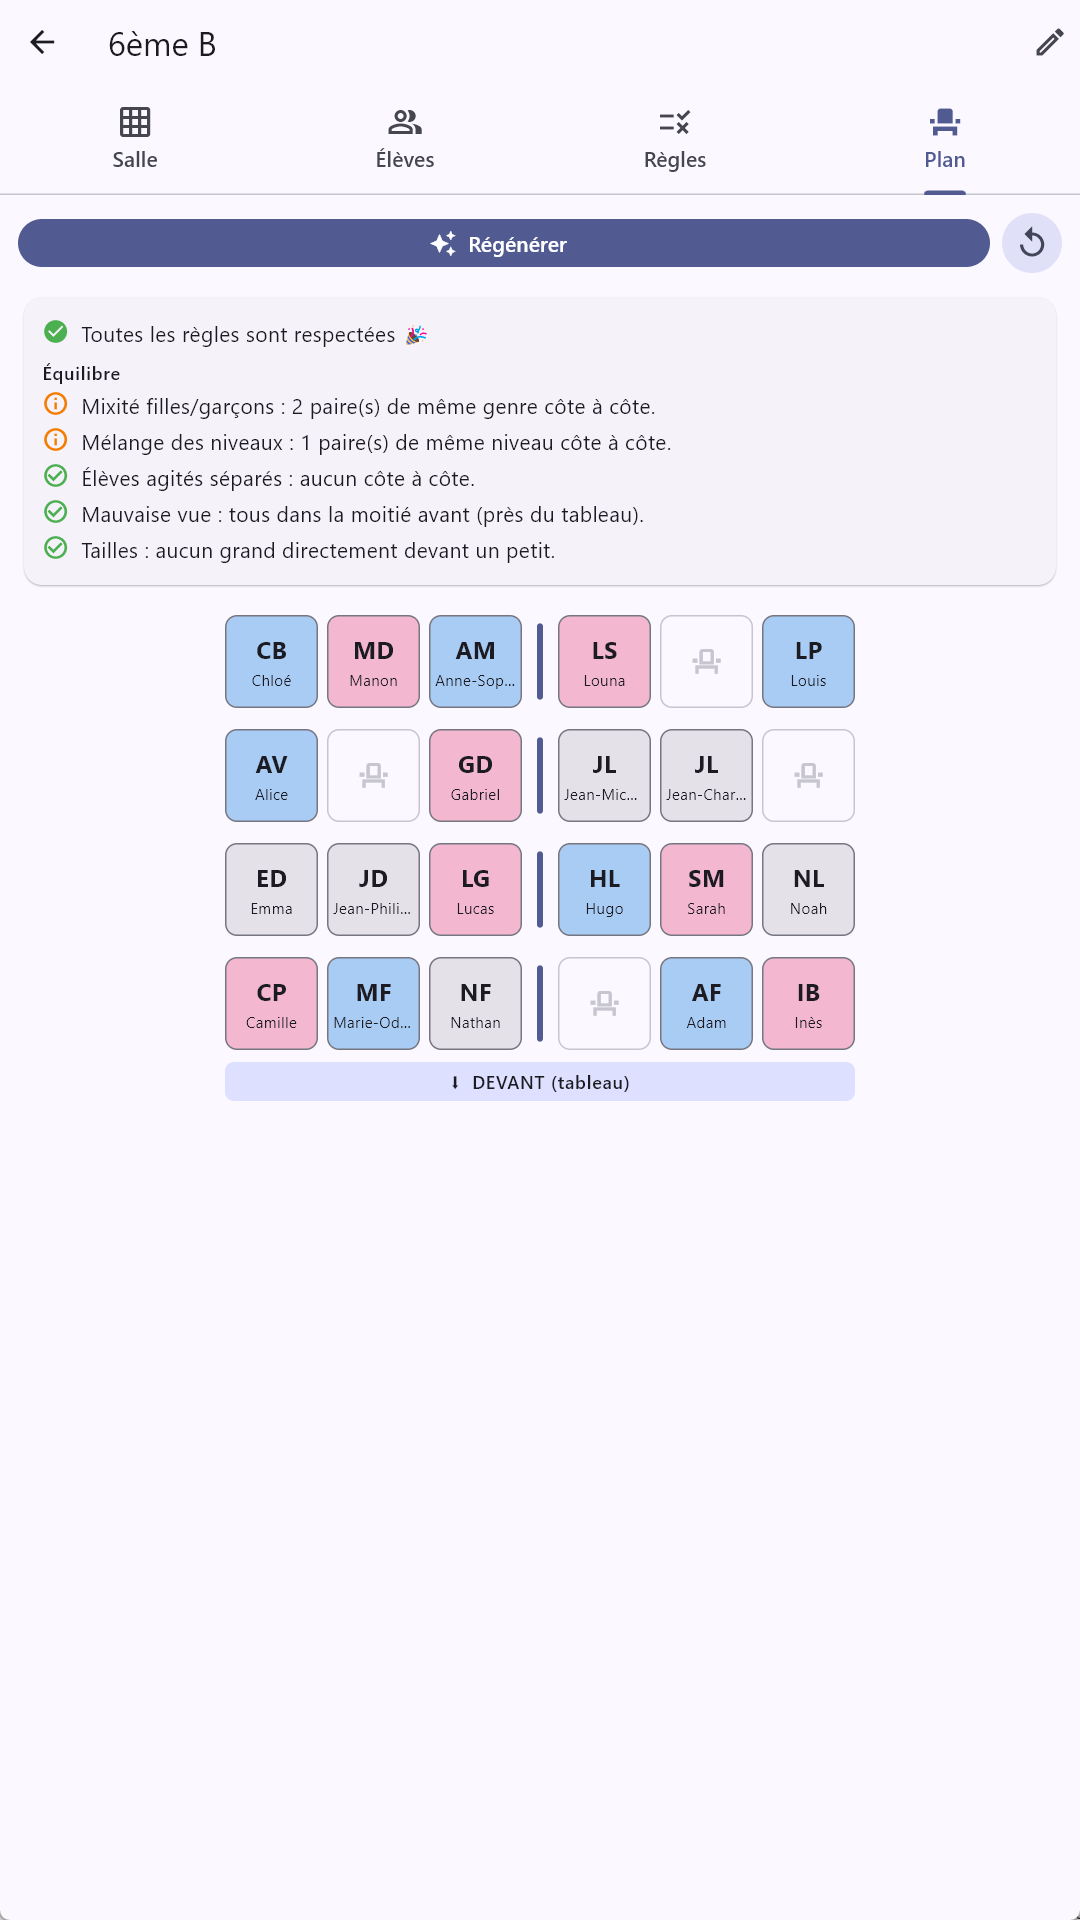
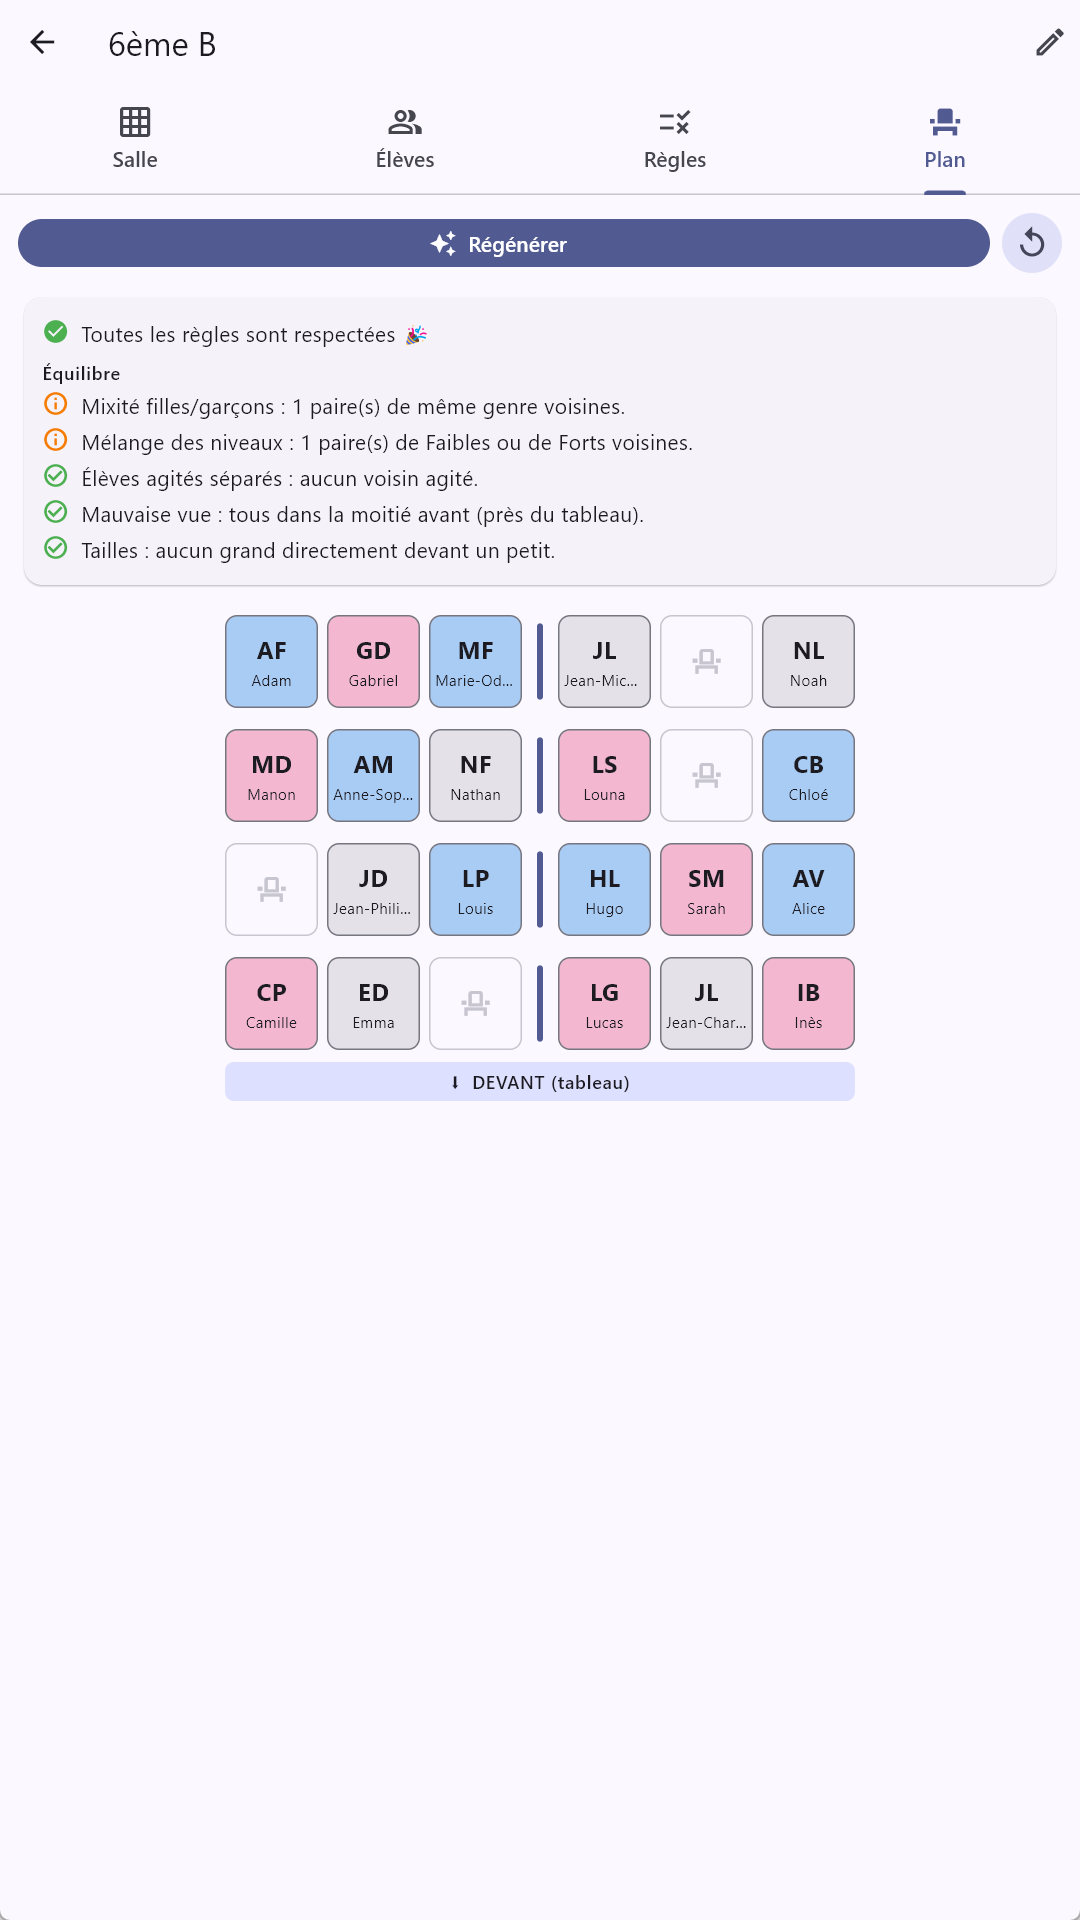
Corrige l'objectif « mélanger les niveaux » et la terminologie « voisin »
L'exemption des élèves au niveau jamais évalué reposait sur un booléen
`levelSet` bugué (marqué à tort à chaque enregistrement du formulaire, quoi
qu'on y touche) et redondant : comme pour les 3 autres objectifs
d'équilibre, ignorer directement la valeur neutre (`Level.moyen`) suffit —
un élève jamais évalué y reste par défaut, donc exempté gratuitement.
Supprime `levelSet` entièrement (modèle, grille, formulaire, JSON) et
corrige la règle pour comparer `level != Level.moyen` des deux côtés,
comme `gender != Gender.autre`.

Corrige aussi un commentaire obsolète dans room.dart qui affirmait que les
rangs sont toujours séparés par un couloir (faux : seul le couloir de
colonne coupe le voisinage gauche/droite, devant/derrière est toujours
voisin — confirmé par seating_neighbors_test.dart).

Remplace « côte à côte » (implique gauche/droite seulement) par « voisin »
partout où c'est ambigu : réglages, rapport de génération, règles
Séparer/Rapprocher, README, fiche Play Store. Reformule le sous-titre de
« Mélanger les niveaux » en « Ne pas créer 2 voisins Faibles ni 2 voisins
Forts » pour ne plus laisser croire que Moyen compte aussi.

Régénère les captures Règles et Plan avec les nouveaux libellés. Ajoute
2 tests dans engine_test.dart vérifiant que Moyen est bien ignoré.

diff --git a/lib/engine/seating_engine.dart b/lib/engine/seating_engine.dart
@@ -273,8 +273,8 @@ class SeatingEngine {
             cost += balancePenalty;
           }
           if (cls.balance.mixLevel &&
-              s.levelSet &&
-              s2.levelSet &&
+              s.level != Level.moyen &&
+              s2.level != Level.moyen &&
               s.level == s2.level) {
             cost += balancePenalty;
           }
@@ -342,8 +342,8 @@ class SeatingEngine {
           sameGender++;
         }
         if (b.mixLevel &&
-            s.levelSet &&
-            s2.levelSet &&
+            s.level != Level.moyen &&
+            s2.level != Level.moyen &&
             s.level == s2.level) {
           sameLevel++;
         }
@@ -390,23 +390,23 @@ class SeatingEngine {
         ok: sameGender == 0,
         label: sameGender == 0
             ? 'Mixité filles/garçons : aucun voisin de même genre.'
-            : 'Mixité filles/garçons : $sameGender paire(s) de même genre côte à côte.',
+            : 'Mixité filles/garçons : $sameGender paire(s) de même genre voisines.',
       ));
     }
     if (b.mixLevel) {
       notes.add((
         ok: sameLevel == 0,
         label: sameLevel == 0
-            ? 'Mélange des niveaux : aucun voisin de même niveau.'
-            : 'Mélange des niveaux : $sameLevel paire(s) de même niveau côte à côte.',
+            ? 'Mélange des niveaux : aucune paire de Faibles ou de Forts voisine.'
+            : 'Mélange des niveaux : $sameLevel paire(s) de Faibles ou de Forts voisines.',
       ));
     }
     if (b.separateAgites) {
       notes.add((
         ok: bothAgite == 0,
         label: bothAgite == 0
-            ? 'Élèves agités séparés : aucun côte à côte.'
-            : 'Élèves agités : $bothAgite paire(s) d\'agités côte à côte.',
+            ? 'Élèves agités séparés : aucun voisin agité.'
+            : 'Élèves agités : $bothAgite paire(s) d\'agités voisines.',
       ));
     }
     // Note affichée seulement s'il existe au moins un élève à mauvaise vue.
@@ -445,7 +445,7 @@ class SeatingEngine {
         case RuleType.separate:
           if (_adjacent(seatOf[rule.studentAId], seatOf[rule.studentBId])) {
             final msg =
-                '${name(rule.studentAId)} et ${name(rule.studentBId)} sont côte à côte (à séparer).';
+                '${name(rule.studentAId)} et ${name(rule.studentBId)} sont voisins (à séparer).';
             (rule.hard ? violations : warnings).add(msg);
           }
         case RuleType.keepTogether:
@@ -453,7 +453,7 @@ class SeatingEngine {
           final kb = seatOf[rule.studentBId];
           if (ka == null || kb == null || !_adjacent(ka, kb)) {
             final msg =
-                '${name(rule.studentAId)} et ${name(rule.studentBId)} ne sont pas côte à côte.';
+                '${name(rule.studentAId)} et ${name(rule.studentBId)} ne sont pas voisins.';
             (rule.hard ? violations : warnings).add(msg);
           }
         case RuleType.frontZone:

diff --git a/lib/screens/class_editor_screen.dart b/lib/screens/class_editor_screen.dart
@@ -224,10 +224,7 @@ final List<_AttrField> _attrFields = [
       Level.moyen => 1,
       Level.fort => 2,
     },
-    (s, i) {
-      s.level = const [Level.faible, Level.moyen, Level.fort][i];
-      s.levelSet = true;
-    },
+    (s, i) => s.level = const [Level.faible, Level.moyen, Level.fort][i],
   ),
   _AttrField(
     'Énergie',
@@ -653,7 +650,6 @@ class _StudentsTabState extends State<_StudentsTab> {
         ..lastName = result.lastName
         ..gender = result.gender
         ..level = result.level
-        ..levelSet = result.levelSet
         ..energy = result.energy
         ..size = result.size
         ..poorEyesight = result.poorEyesight
@@ -878,9 +874,6 @@ class _StudentFormDialogState extends State<_StudentFormDialog> {
               lastName: _last.text.trim(),
               gender: _gender,
               level: _level,
-              // Le formulaire propose toujours un choix concret (plus de
-              // « non défini » dans Level) : l'enregistrer vaut confirmation.
-              levelSet: true,
               energy: _energy,
               size: _size,
               poorEyesight: _poorEyesight,
@@ -940,7 +933,8 @@ class _RulesTab extends StatelessWidget {
               ),
               SwitchListTile(
                 title: const Text('Mélanger les niveaux'),
-                subtitle: const Text('Éviter les voisins de même niveau'),
+                subtitle:
+                    const Text('Ne pas créer 2 voisins Faibles ni 2 voisins Forts'),
                 value: cls.balance.mixLevel,
                 onChanged: (v) {
                   cls.balance.mixLevel = v;
@@ -949,7 +943,7 @@ class _RulesTab extends StatelessWidget {
               ),
               SwitchListTile(
                 title: const Text('Séparer les élèves agités'),
-                subtitle: const Text('Éviter deux élèves agités côte à côte'),
+                subtitle: const Text('Éviter les voisins agités'),
                 value: cls.balance.separateAgites,
                 onChanged: (v) {
                   cls.balance.separateAgites = v;

diff --git a/test/engine_test.dart b/test/engine_test.dart
@@ -204,6 +204,47 @@ void main() {
     expect(res.balance.any((n) => n.label.contains('Tailles')), isFalse);
   });
 
+  test('objectif « mélanger les niveaux » : Moyen est ignoré', () {
+    final cls = _classWith(
+      room: Room(rows: 1, cols: 2), // 2 places : forcément voisines
+      students: [
+        Student(id: 'a', firstName: 'A', level: Level.moyen),
+        Student(id: 'b', firstName: 'B', level: Level.moyen),
+      ],
+      rules: [],
+      balance: BalanceSettings(mixLevel: true),
+    );
+
+    final res = SeatingEngine(cls, seed: 1).generate();
+
+    expect(res.balance.any((n) => n.label.contains('niveaux') && n.ok), isTrue,
+        reason: 'deux Moyen voisins ne doivent pas compter comme même niveau');
+  });
+
+  test(
+      'objectif « mélanger les niveaux » : deux Faible non voisins '
+      '(Fort ignoré comme troisième)', () {
+    final cls = _classWith(
+      room: Room(rows: 1, cols: 5),
+      students: [
+        Student(id: 'a', firstName: 'A', level: Level.faible),
+        Student(id: 'b', firstName: 'B', level: Level.faible),
+        Student(id: 'c', firstName: 'C', level: Level.fort),
+      ],
+      rules: [],
+      balance: BalanceSettings(mixLevel: true),
+    );
+
+    final res = SeatingEngine(cls, seed: 5).generate();
+    final seatA = res.assignment.entries.firstWhere((e) => e.value == 'a').key;
+    final seatB = res.assignment.entries.firstWhere((e) => e.value == 'b').key;
+    final (_, ca) = Room.parse(seatA);
+    final (_, cb) = Room.parse(seatB);
+
+    expect((ca - cb).abs() > 1, isTrue,
+        reason: 'les deux Faible ne devraient pas être côte à côte');
+  });
+
   test('trop d\'élèves : les surnuméraires sont signalés', () {
     final cls = _classWith(
       room: Room(rows: 1, cols: 2), // 2 places

diff --git a/lib/models/student.dart b/lib/models/student.dart
@@ -49,13 +49,6 @@ class Student {
   String lastName;
   Gender gender;
   Level level;
-
-  /// Distingue un niveau jamais touché (reste au défaut « Moyen ») d'un
-  /// niveau explicitement choisi. Sert uniquement au moteur d'affectation :
-  /// tant que ce n'est pas renseigné, l'élève est exempté des règles
-  /// d'équilibrage par niveau (voir seating_engine.dart). Invisible dans la
-  /// grille : le premier tap sur la cellule Niveau le passe à true.
-  bool levelSet;
   Energy energy;
   StudentSize size;
 
@@ -72,7 +65,6 @@ class Student {
     this.lastName = '',
     this.gender = Gender.autre,
     this.level = Level.moyen,
-    this.levelSet = false,
     this.energy = Energy.modere,
     this.size = StudentSize.moyen,
     this.poorEyesight = false,
@@ -99,7 +91,6 @@ class Student {
         'lastName': lastName,
         'gender': gender.name,
         'level': level.name,
-        'levelSet': levelSet,
         'energy': energy.name,
         'size': size.name,
         'poorEyesight': poorEyesight,
@@ -118,12 +109,6 @@ class Student {
           (l) => l.name == j['level'],
           orElse: () => Level.moyen,
         ),
-        // Rétrocompat : les sauvegardes d'avant ce critère (ou avec l'ancienne
-        // valeur « nonDefini ») n'ont pas cette clé — on déduit alors le statut
-        // « jamais touché » du fait que la chaîne stockée ne corresponde à
-        // aucune valeur réelle actuelle.
-        levelSet: (j['levelSet'] as bool?) ??
-            Level.values.any((l) => l.name == j['level']),
         energy: Energy.values.firstWhere(
           // Rétrocompat : lit aussi l'ancienne clé « temperament ».
           (t) => t.name == (j['energy'] ?? j['temperament']),

diff --git a/test/students_grid_cycle_test.dart b/test/students_grid_cycle_test.dart
@@ -1,6 +1,5 @@
 // Vérifie la nouvelle interaction de la grille Élèves : une colonne par
-// champ, un tap sur la cellule passe à la valeur suivante (boucle), et le
-// premier tap sur Niveau marque bien levelSet (pour le moteur d'affectation).
+// champ, un tap sur la cellule passe à la valeur suivante (boucle).
 import 'package:flutter/material.dart';
 import 'package:flutter_test/flutter_test.dart';
 import 'package:shared_preferences/shared_preferences.dart';
@@ -40,18 +39,14 @@ void main() {
       await tester.pumpAndSettle();
     }
 
-    // Niveau : Moyen (défaut) -> Fort -> Faible -> Moyen ; le premier tap
-    // marque levelSet (exemption moteur), qui reste vrai ensuite.
+    // Niveau : Moyen (défaut) -> Fort -> Faible -> Moyen.
     expect(s.level, Level.moyen);
-    expect(s.levelSet, isFalse);
     await tapField('Niveau');
     expect(s.level, Level.fort);
-    expect(s.levelSet, isTrue);
     await tapField('Niveau');
     expect(s.level, Level.faible);
     await tapField('Niveau');
     expect(s.level, Level.moyen);
-    expect(s.levelSet, isTrue);
 
     // Genre : Non précisé (défaut) -> Garçon -> Fille -> Non précisé.
     expect(s.gender, Gender.autre);

diff --git a/lib/models/rule.dart b/lib/models/rule.dart
@@ -2,8 +2,8 @@
 ///
 /// - [fixedSeat]    : un élève doit occuper une place précise.
 /// - [frontZone]    : un élève doit être dans les premiers rangs.
-/// - [separate]     : deux élèves ne doivent PAS être côte à côte.
-/// - [keepTogether] : deux élèves doivent être côte à côte.
+/// - [separate]     : deux élèves ne doivent PAS être voisins.
+/// - [keepTogether] : deux élèves doivent être voisins.
 ///
 /// Chaque règle est « dure » (obligatoire) ou « souple » (préférence).
 library;
@@ -22,8 +22,8 @@ extension RuleTypeInfo on RuleType {
         RuleType.fixedSeat => 'Assigner un élève à une place précise',
         RuleType.frontZone =>
           'Placer un élève dans les premiers rangs (vue, audition, PMR…)',
-        RuleType.separate => "Empêcher deux élèves d'être côte à côte",
-        RuleType.keepTogether => "Garder deux élèves l'un à côté de l'autre",
+        RuleType.separate => "Empêcher deux élèves d'être voisins",
+        RuleType.keepTogether => 'Garder deux élèves voisins',
       };
 
   /// Nombre d'élèves concernés (1 ou 2).

diff --git a/lib/models/room.dart b/lib/models/room.dart
@@ -14,9 +14,10 @@ class Room {
   /// colonne `c` de la colonne `c+1` (donc `0 <= c <= cols - 2`). Deux places
   /// de part et d'autre d'un couloir ne sont pas voisines.
   ///
-  /// Note : les rangs sont, eux, TOUJOURS séparés par un couloir. On ne
-  /// considère « à côté » que deux places du même rang, sur des colonnes
-  /// adjacentes, sans couloir entre elles (voir [SeatingEngine]).
+  /// Note : ce couloir ne coupe que le voisinage horizontal (gauche/droite).
+  /// Il n'existe pas d'équivalent pour les rangs : deux places de rangs
+  /// contigus, même colonne, sont TOUJOURS voisines (devant/derrière), sans
+  /// possibilité de les séparer par un couloir (voir [SeatingEngine]).
   Set<int> colAisles;
 
   Room({

diff --git a/lib/models/classroom.dart b/lib/models/classroom.dart
@@ -10,7 +10,7 @@ import 'student.dart';
 class BalanceSettings {
   bool mixGender; // alterner filles / garçons dans le voisinage
   bool mixLevel; // alterner les niveaux dans le voisinage
-  bool separateAgites; // éviter deux élèves agités côte à côte
+  bool separateAgites; // éviter deux élèves agités voisins
   bool frontForPoorEyesight; // rapprocher du tableau les élèves à mauvaise vue
   bool avoidTallInFrontOfShort; // éviter un grand juste devant un petit
 

diff --git a/README.md b/README.md
@@ -21,12 +21,12 @@ sur Internet — adapté aux données élèves).
   *préférence* (souple) :
   - *Place imposée* — un élève sur une place précise ;
   - *Doit être devant* — dans les N premiers rangs (vue, audition, PMR…) ;
-  - *Séparer* — deux élèves jamais côte à côte ;
-  - *Rapprocher* — deux élèves côte à côte.
+  - *Séparer* — deux élèves jamais voisins ;
+  - *Rapprocher* — deux élèves voisins.
 - **Objectifs d'équilibre** (souples, appliqués à toute la classe) :
   - *Mélanger les genres* — éviter les voisins de même genre ;
-  - *Mélanger les niveaux* — éviter les voisins de même niveau ;
-  - *Séparer les élèves agités* — éviter deux agités côte à côte ;
+  - *Mélanger les niveaux* — ne pas créer 2 voisins Faibles ni 2 voisins Forts ;
+  - *Séparer les élèves agités* — éviter les voisins agités ;
   - *Mauvaise vue* — rapprocher du tableau (moitié avant) les élèves concernés ;
   - *Éviter un grand devant un petit* — un élève grand ne bloque pas la vue de
     celui placé juste derrière.
